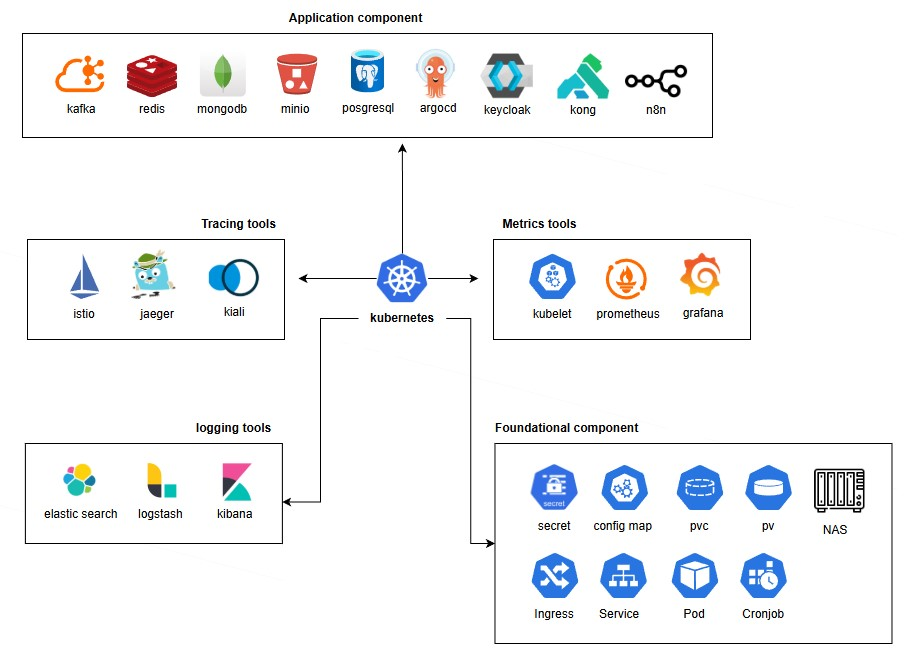
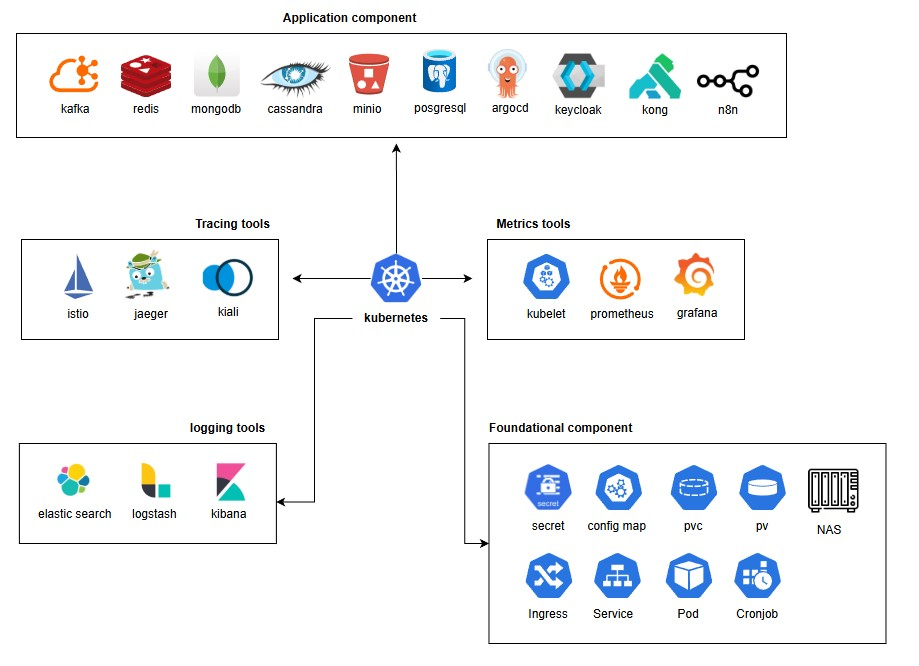
feat: cassandra and cassandra-web

diff --git a/README.md b/README.md
@@ -10,6 +10,7 @@ This repository provides a comprehensive set of examples for setting up a Kubern
 [Live Demo for Argocd](https://argocd.mydormroom.dpdns.org/)  
 [Live Demo for Redis](https://redis-commander.mydormroom.dpdns.org/)  
 [Live Demo for Kafka](https://kafka-ui.mydormroom.dpdns.org/)  
+[Live Demo for Cassandra](https://cassandra-web.mydormroom.dpdns.org/)  
 [Live Demo for Mongo](https://mongo-express.mydormroom.dpdns.org/)  
 [Live Demo for Kong](https://konga.mydormroom.dpdns.org/)  
 [Live Demo for Keycloak](https://keycloak.mydormroom.dpdns.org/)  
@@ -85,6 +86,11 @@ A document-based NoSQL database suitable for applications requiring high scalabi
 
 ![mongodb](./images/mongodb.jpg)
 
+### **Cassandra**
+A highly scalable and distributed NoSQL database designed for handling large amounts of data across many commodity servers with no single point of failure. It supports high availability, linear scalability, and a flexible schema, making it suitable for real-time big data applications.
+
+![Cassandra](./images/cassandra.jpg)
+
 ### **Kong**
 An open-source API gateway and microservice management layer that provides features such as load balancing, authentication, rate limiting, and logging. It helps manage, secure, and monitor API traffic efficiently.
 
@@ -95,7 +101,4 @@ An open-source identity and access management solution that supports Single Sign
 
 ![keycloak](./images/keycloak.jpg)
 
-### **n8n**
-A workflow automation tool that enables connecting different services and automating tasks with a visual interface. It supports custom logic, condition handling, and integrations with APIs, databases, and message queues.
 
-![n8n](./images/n8n.jpg)
